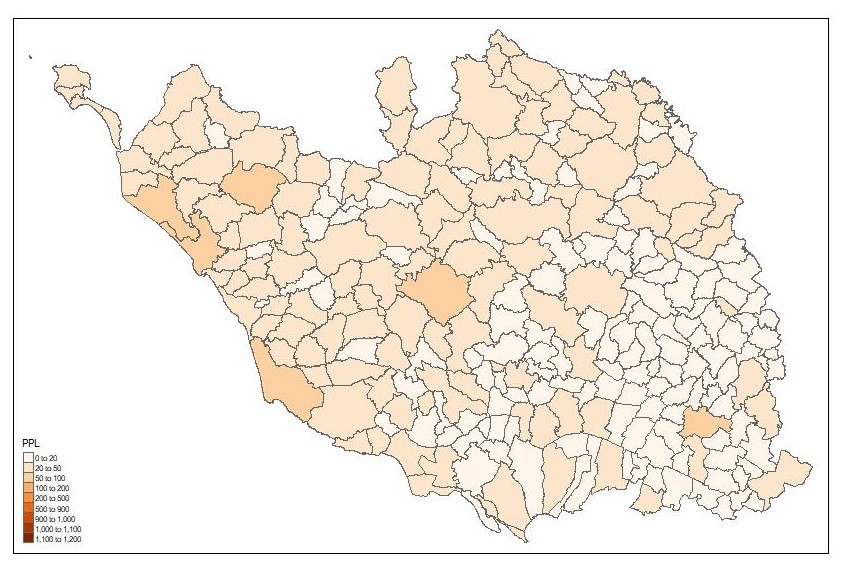
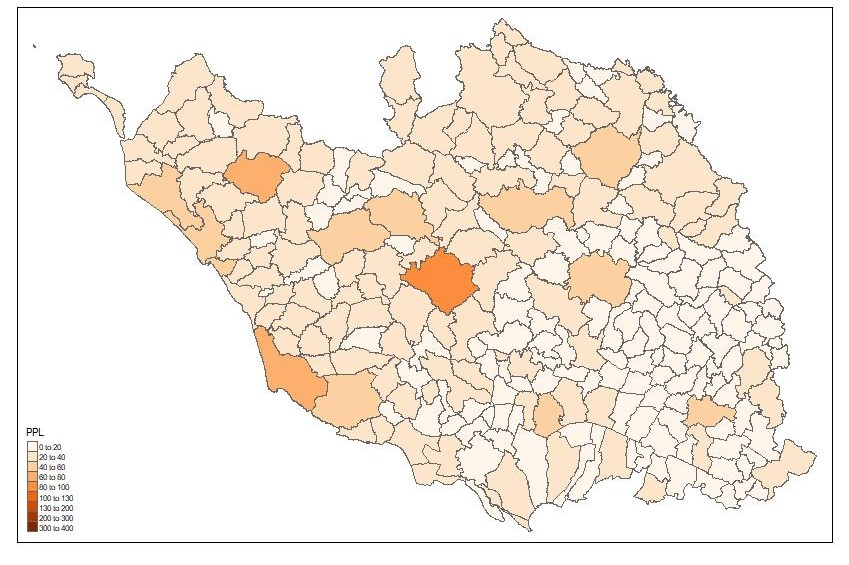
update latent mixture model

Changed region(s): [[0.0, 0.0301, 0.9835, 0.9628]]

diff --git a/README.md b/README.md
@@ -85,8 +85,8 @@ Modèle classique peu performant
 
 2) Modèle Latent Mixture 
 
-La classification en groupes non observés du vote Macron au 2eme tour de la présidentielle de 2017 n'a pas été concluante dans la mesure où la victoire de Macron a été écrasente.
-En revanche la modélisation de Theta par une distribution gamma a eu un gros impact sur les perfomances du modèle comme on peut le voir sur le graphique des erreurs prédictives :
+La classification en groupes non observés du vote Macron et Lepen au 2eme tour de la présidentielle de 2017 n'a pas été concluante. Le modèle n'arrive pas à bien distingué entre un vote Lepen et un vote Macron.
+Les erreurs prédictives pour le vote Lepen sont :
 
 ![alt text](ppl/LatentMixturePPL.jpg "EPP: Modèle Latent Mixture ")
 
